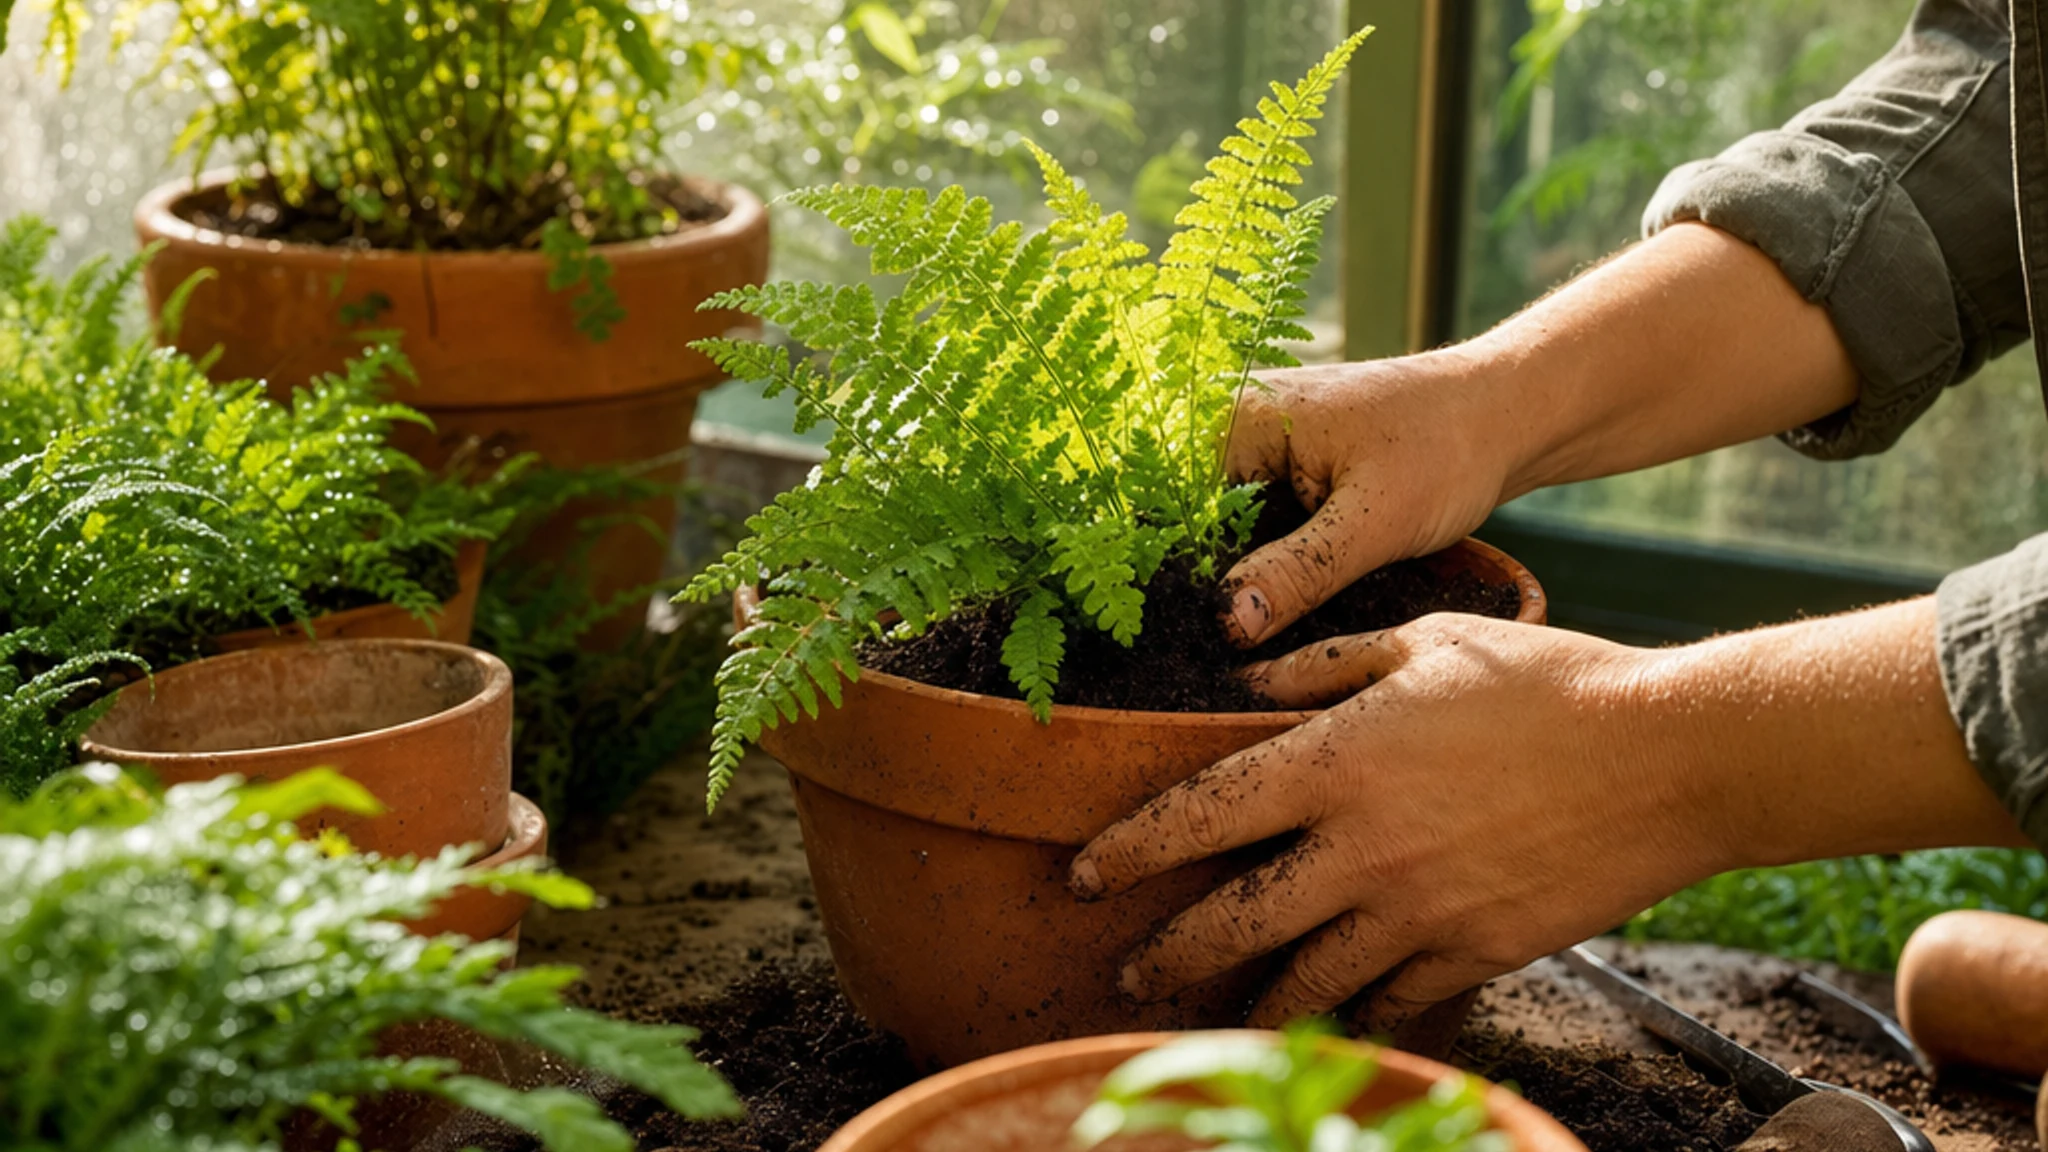
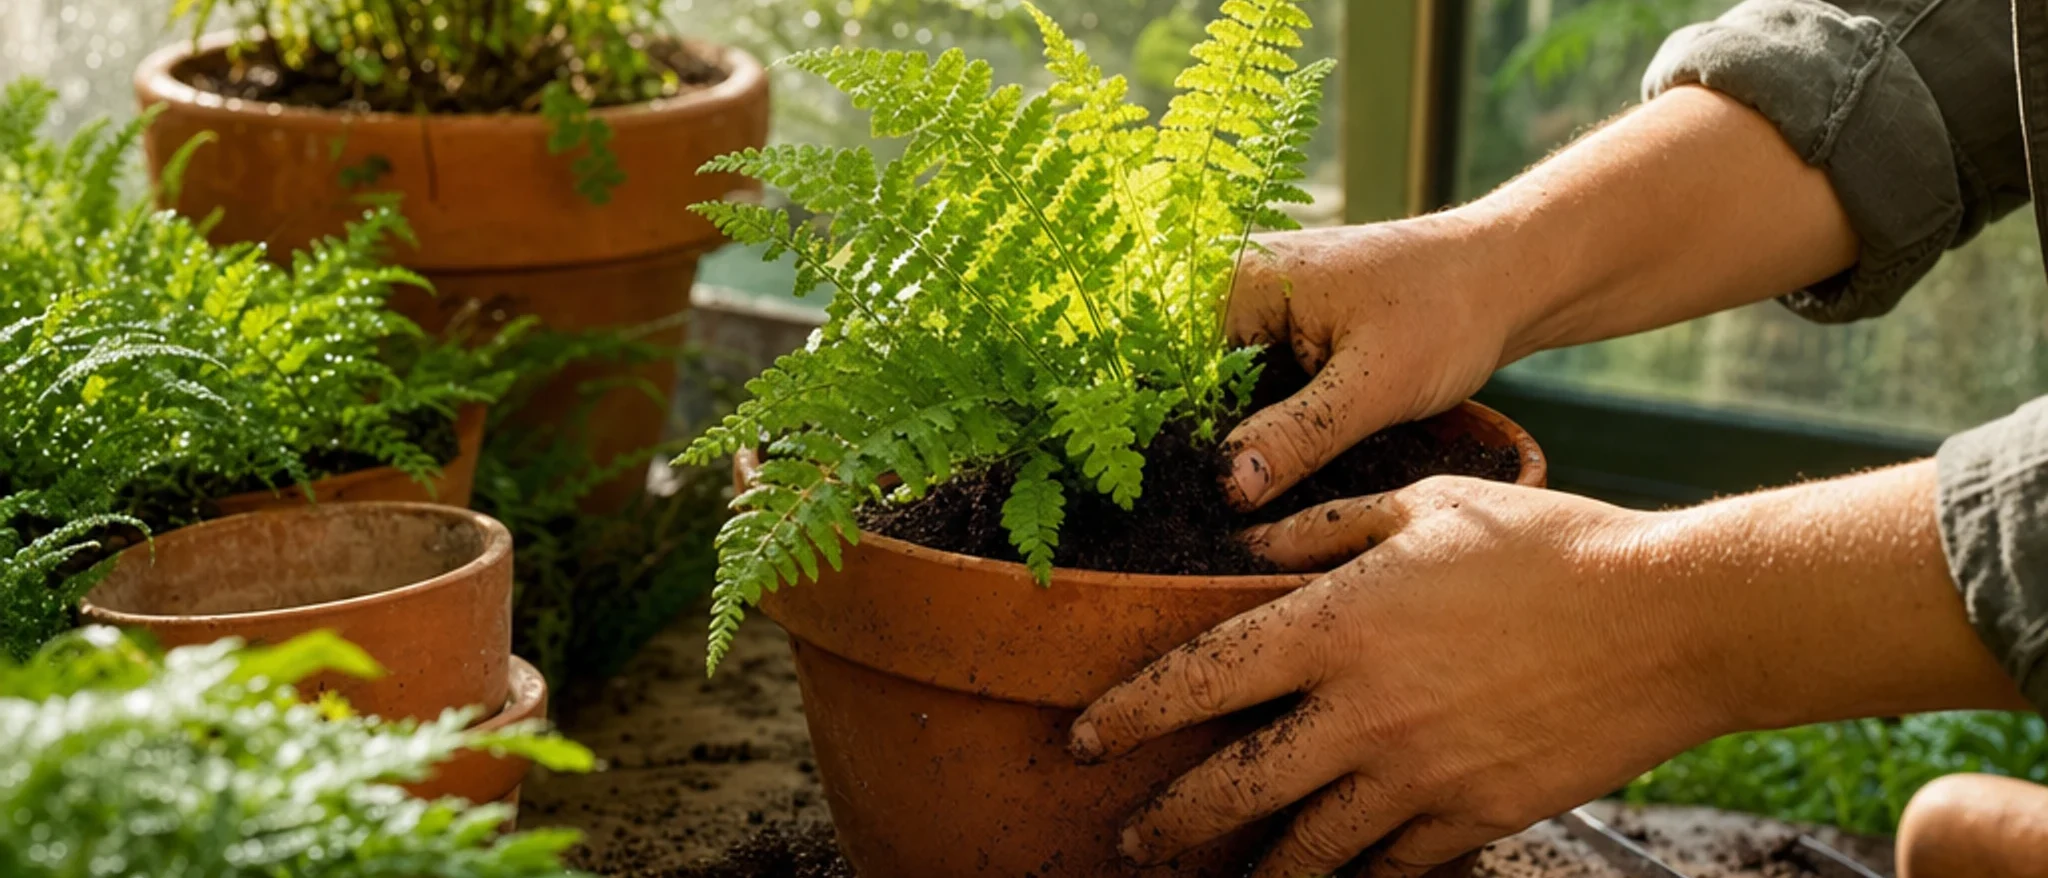
Cropped the hero side pictures to 21:9 so the feature strip shows above the fold

diff --git a/tools/build-pack.py b/tools/build-pack.py
@@ -328,7 +328,7 @@ def build(spec_path):
     HOME = 'gpt-image-2'
     scene = [
         {'file': 'hero-main', 'dir': f'media/wysiwyg/{c}', 'size': '2560x1440', 'ratio': '16:9', 'model': HOME, 'prompt': S.SCENES['hero-main']},
-        {'file': 'hero-side', 'dir': f'media/wysiwyg/{c}', 'size': '2048x1152', 'ratio': '16:9', 'model': HOME, 'prompt': S.SCENES['hero-side']},
+        {'file': 'hero-side', 'dir': f'media/wysiwyg/{c}', 'size': '2048x1152', 'ratio': '21:9', 'model': HOME, 'prompt': S.SCENES['hero-side']},
         {'file': 'editorial', 'dir': f'media/wysiwyg/{c}', 'size': '1536x1024', 'ratio': '5:4', 'model': HOME, 'prompt': S.SCENES['editorial']},
         {'file': 'about', 'dir': f'media/wysiwyg/{c}', 'size': '1536x1024', 'ratio': '5:4', 'model': HOME, 'prompt': S.SCENES['about']},
         {'file': 'banner-a', 'dir': f'media/wysiwyg/{c}', 'size': '2560x1440', 'ratio': '3:1', 'model': HOME, 'prompt': S.CATEGORIES[4]['scene']},

diff --git a/CLAUDE.md b/CLAUDE.md
@@ -13,7 +13,7 @@ Sample data for Maho: eleven websites on one installation, everything as CSV pac
 - Scope everything by code, never by id. Config macros: `{{attribute_id:code}}`, `{{attribute_ids:a,b}}`, `{{category_id:Root/url-key}}`, `{{cms_block_id:identifier}}`, `{{store_id:code}}`.
 - Pictures: product cutouts use `wavespeed-ai/krea-v2/turbo` on NanoGPT (0.010 USD per picture), chosen in a bake-off against flux-2-klein-9b, z-image-turbo and microsoft/mai-image-2.5. Fallback: `flux-2-klein-9b`. Every home page picture (hero, editorial, gallery, banners, tiles, about, blog) and the store pack use `gpt-image-2` (0.05 to 0.07 USD per picture). Category banners use `ideogram-v3-turbo` at 1536x512 for a true 3:1.
 - A manifest entry carries its own `style` for scene pictures (`SCENE_STYLE` from the spec). The manifest `style` is the product studio style and must never reach a scene prompt: the model then renders a scene and a cutout side by side.
-- gpt-image-2 renders 1:1, 3:2, 16:9 and their portrait forms. Ask for one of those sizes and set `ratio` to the shape you need. The generator crops to the ratio from the centre.
+- gpt-image-2 renders 1:1, 3:2, 16:9 and their portrait forms. Ask for one of those sizes and set `ratio` to the shape you need. The generator crops to the ratio from the centre. The hero side picture is 21:9 so the hero bento stays short and the feature strip shows above the fold.
 - Every industry home page follows the Fashion page: hero bento, feature strip, category tiles, new arrivals, story, promo, three quotes, a five picture gallery bento (`GALLERY` in the spec), blog posts, newsletter, the brand marquee (`BRANDS` in the spec, text logos written as SVG by the builder) and two category banners.
 - Product pictures are cutouts on a transparent ground (`tools/cutout.sh`); the theme paints the tile.
 - No real brands. Invented brand marks only.
